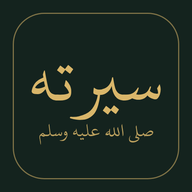
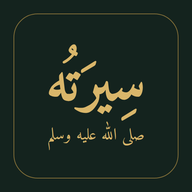
أيقونة الجوال وصورة المشاركة باسم «سِيرَتُه» مشكولاً
Claude-Session: https://claude.ai/code/session_01JkLm6hy17wbKXP7A7z1Jyh

Changed region(s): [[0.1562, 0.2188, 0.8438, 0.7812], [0.0625, 0.0625, 0.9375, 0.9375]]

diff --git a/worker/src/hadith.js b/worker/src/hadith.js
@@ -1,0 +1,2 @@
+// the hadiths of «من شمائله» on the site, in the same order (al-Albani graded them sahih or hasan)
+export default [{"n": "1", "p": 13, "g": "صحيح", "t": "عن أنس بن مالك أنه سمعه يقول: (كان رسول الله صلى الله عليه وسلم ليس بالطويل البائن ولا بالقصير ولا بالأبيض الأمهق ولا بالآدم ولا بالجعد القطط ولا بالسبط بعثه الله تعالى…"}, {"n": "2", "p": 14, "g": "صحيح", "t": "وعنه قال: (كان رسول الله صلى الله عليه وسلم ربعة ليس بالطويل ولا بالقصير حسن الجسم وكان شعره ليس بجعد ولا سبط أسمر اللون إذا مشى يتكفأ)"}, {"n": "3", "p": 14, "g": "صحيح", "t": "البراء بن عازب يقول: (كان رسول الله صلى الله عليه وسلم رجلا مربوعا بعيد ما بين المنكبين عظيم الجمة إلى شحمة أذنيه عليه حلة حمراء ما رأيت شيئا قط أحسن منه وفي رواية عنه…"}, {"n": "4", "p": 15, "g": "صحيح", "t": "عن علي بن أبي طالب قال: (لم يكن النبي صلى الله عليه وسلم بالطويل ولا بالقصير شثن الكفين والقدمين ضخم الرأس ضخم الكراديس طويل المسربة إذا مشى تكفأ تكفؤا كأنما ينحط من صبب…"}, {"n": "7", "p": 26, "g": "صحيح", "t": "جابر بن سمرة يقول: (كان رسول الله صلى الله عليه وسلم ضليع الفم أشكل العين منهوس العقب). قال شعبة: قلت لسماك: ما (ضليع الفم)؟ قال: عظيم الفم. قلت: ما (أشكل العين)؟ قال:…"}, {"n": "8", "p": 27, "g": "صحيح", "t": "وعنه قال: (رأيت رسول الله صلى الله عليه وسلم في ليلة إضحيان وعليه حلة حمراء فجعلت أنظر إليه وإلى القمر فلهو عندي أحسن من القمر)"}, {"n": "9", "p": 27, "g": "صحيح", "t": "عن أبي إسحاق قال: سأل رجل البراء بن عازب: أكان وجه رسول الله صلى الله عليه وسلم مثل السيف؟ قال: (لا بل مثل القمر)"}, {"n": "10", "p": 27, "g": "صحيح", "t": "عن أبي هريرة رضي الله عنه قال: (كان رسول الله صلى الله عليه وسلم أبيض كأنما صيغ من فضة رجل الشعر)"}, {"n": "11", "p": 28, "g": "صحيح", "t": "عن جابر بن عبد الله أن رسول الله صلى الله عليه وسلم قال: (عرض علي الأنبياء فإذا موسى عليه السلام ضرب من الرجال كأنه من رجال شنوءة ورأيت عيسى ابن مريم عليه السلام فإذا…"}, {"n": "12", "p": 29, "g": "صحيح", "t": "أبا الطفيل يقول: (رأيت النبي صلى الله عليه وسلم وما بقي على وجه الأرض أحد رآه غيري) قلت: صفه لي. قال: (كان أبيض مليحا مقصدا)"}, {"n": "14", "p": 30, "g": "صحيح", "t": "السائب بن يزيد يقول: (ذهبت بي خالتي إلى النبي صلى الله عليه وسلم فقالت: يا رسول الله إن ابن أختي وجع فمسح صلى الله عليه وسلم رأسي ودعا لي بالبركة وتوضأ فشربت من وضوئه…"}, {"n": "15", "p": 30, "g": "صحيح", "t": "عن جابر بن سمرة قال: (رأيت الخاتم بين كتفي رسول الله صلى الله عليه وسلم غدة حمراء مثل بيضة الحمامة)"}, {"n": "16", "p": 31, "g": "صحيح", "t": "عن عاصم بن عمر بن قتادة عن جدته رميثة قالت: سمعت رسول الله صلى الله عليه وسلم ولو أشاء أن أقبل الخاتم الذي بين كتفيه من قربه لفعلت يقول لسعد بن معاذ يوم مات: (اهتز له…"}, {"n": "17", "p": 31, "g": "صحيح", "t": "أبو زيد عمرو بن أخطب الأنصاري قال: قال لي رسول الله صلى الله عليه وسلم : (يا أبا زيد ادن مني فامسح ظهري) فمسحت ظهره فوقعت أصابعي على الخاتم. قلت: وما الخاتم. قال: شعرات…"}, {"n": "18", "p": 31, "g": "حسن", "t": "بريدة يقول: جاء سلمان الفارسي إلى رسول الله صلى الله عليه وسلم حين قدم المدينة بمائدة عليها رطب فوضعها بين يدي رسول الله صلى الله عليه وسلم فقال: (يا سلمان: ما هذا؟…"}, {"n": "19", "p": 33, "g": "حسن", "t": "عن أبي نضرة العوقي قال: سألت أبا سعيد الخدري عن خاتم رسول الله صلى الله عليه وسلم؟ يعني خاتم النبوة فقال: (كان في ظهره بضعة ناشزة)"}, {"n": "20", "p": 33, "g": "صحيح", "t": "عن عبد الله بن سرجس قال: (أتيت رسول الله صلى الله عليه وسلم وهو في ناس من أصحابه فدرت هكذا من خلفه فعرف الذي أريد فألقى الرداء عن ظهره فرأيت موضع الخاتم على كتفيه مثل…"}, {"n": "21", "p": 34, "g": "صحيح", "t": "عن أنس بن مالك قال: (كان شعر رسول الله صلى الله عليه وسلم إلى نصف (وفي طريق أخرى: أنصاف / ٢٨) أذنيه)"}, {"n": "22", "p": 34, "g": "صحيح", "t": "عن عائشة قالت: (كنت أغتسل أنا ورسول الله صلى الله عليه وسلم من إناء واحد وكان له شعر فوق الجمة ودون الوفرة)"}, {"n": "23", "p": 35, "g": "صحيح", "t": "عن أم هانئ بنت أبي طالب قالت: (قدم رسول الله صلى الله عليه وسلم مكة قدمة وله أربع غدائر \" وفي رواية: ضفائر / ٣٠ \")"}, {"n": "24", "p": 36, "g": "صحيح", "t": "عن ابن عباس: (أن رسول الله صلى الله عليه وسلم كان يسدل شعره وكان المشركون يفرقون رؤوسهم وكان أهل الكتاب يسدلون رؤوسهم وكان يحب موافقة أهل الكتاب فيما لم يؤمر فيه بشئ ثم…"}, {"n": "30", "p": 38, "g": "صحيح", "t": "عن قتادة قال: قلت لأنس بن مالك: (هل خضب رسول الله صلى الله عليه وسلم؟ قال: لم يبلغ ذلك إنما كان شيبا في صدغيه ولكن أبو بكر رضي الله تعالى عنه خضب بالحناء والكتم)"}, {"n": "31", "p": 38, "g": "صحيح", "t": "عن أنس بن مالك قال: (ما عددت في رأس رسول الله صلى الله عليه وسلم ولحيته إلا أربع عشرة شعرة بيضاء)"}, {"n": "32", "p": 39, "g": "صحيح", "t": "عن سماك بن حرب قال: سمعت جابر بن سمرة وقد سئل عن شيب رسول الله صلى الله عليه وسلم؟ فقال: (كان إذا دهن رأسه لم ير منه شيب وإذا لم يدهن رؤي منه شيء) وفي رواية: (لم يكن في…"}, {"n": "33", "p": 39, "g": "صحيح", "t": "عن عبد الله بن عمر قال: (إنما كان شيب رسول الله صلى الله عليه وسلم نحوا من عشرين شعرة بيضاء)"}, {"n": "34", "p": 40, "g": "صحيح", "t": "عن ابن عباس قال: قال أبو بكر: يا رسول الله قد شبت. قال: (شيبتني هود والواقعة والمرسلات وعم يتساءلون وإذا الشمس كورت)"}, {"n": "35", "p": 40, "g": "صحيح", "t": "عن أبي جحيفة [قال] : قالوا: يا رسول الله نراك قد شبت. قال: (قد شيبتني هود وأخواتها)"}, {"n": "36", "p": 40, "g": "صحيح", "t": "عن أبي رمثة التيمي تيم الرباب قال: أتيت النبي صلى الله عليه وسلم ومعي ابن لي قال: فأريته فقلت لما رأيته: (هذا نبي الله صلى الله عليه وسلم وعليه ثوبان (وفي رواية: بردان /…"}, {"n": "191", "p": 119, "g": "صحيح", "t": "عن عائشة رضي الله تعالى عنها قالت: (ما كان رسول الله صلى الله عليه وسلم يسرد كسردكم هذا ولكنه كان يتكلم بكلام بين فصل يحفظه من جلس إليه)"}, {"n": "192", "p": 120, "g": "صحيح", "t": "عن أنس بن مالك قال: (كان رسول الله صلى الله عليه وسلم يعيد الكلمة ثلاثا لتعقل عنه)"}, {"n": "194", "p": 121, "g": "صحيح", "t": "عن عبد الله بن الحارث بن جزء رضي الله عنه أنه قال: (ما رأيت أحدا أكثر تبسما من رسول الله صلى الله عليه وسلم ) ومن طريق أخرى عنه قال: (ما كان ضحك رسول الله صلى الله عليه…"}, {"n": "195", "p": 121, "g": "صحيح", "t": "عن أبي ذر رضي الله عنه قال: قال رسول الله صلى الله عليه وسلم : (إني لأعلم أول رجل يدخل الجنة وآخر رجل يخرج من النار: يؤتى بالرجل يوم القيامة فيقال: اعرضوا عليه صغار…"}, {"n": "196", "p": 122, "g": "صحيح", "t": "عن جرير بن عبد الله رضي الله عنه قال: (ما حجبني رسول الله صلى الله عليه وسلم منذ أسلمت ولا رآني إلا ضحك). وفي رواية: (إلا تبسم / ٢٣١)"}, {"n": "197", "p": 122, "g": "صحيح", "t": "عن عبد الله بن مسعود رضي الله عنه قال: قال رسول الله صلى الله عليه وسلم : (إني لأعرف آخر أهل النار خروجا رجل يخرج منها زحفا فيقال له: انطلق فادخل الجنة. قال: فيذهب ليدخل…"}, {"n": "198", "p": 123, "g": "صحيح", "t": "علي بن ربيعة قال: شهدت عليا رضي الله عنه أتي بدابة ليركبها فلما وضع رجله في الركاب قال: بسم الله فلما استوى على ظهرها قال: الحمد لله ثم قال: (سبحان الذي سخر لنا هذا وما…"}, {"n": "295", "p": 181, "g": "حسن", "t": "عن عمرو بن العاص قال: (كان رسول الله صلى الله عليه وسلم يقبل بوجهه وحديثه على أشر القوم يتألفهم بذلك فكان يقبل بوجهه وحديثه علي حتى ظننت أني خير القوم [فقلت يا رسول الله…"}, {"n": "296", "p": 181, "g": "صحيح", "t": "عن أنس بن مالك رضي الله عنه قال: (خدمت رسول الله صلى الله عليه وسلم عشر سنين فما قال لي أف قط وما قال لي لشيء صنعته: لم صنعته ولا لشيء تركته: لم تركته وكان رسول الله صلى…"}, {"n": "298", "p": 182, "g": "صحيح", "t": "عن عائشة أنها قالت: (لم يكن رسول الله صلى الله عليه وسلم فاحشا ولا متفحشا ولا صخابا في الأسواق ولا يجزيء بالسيئة ولكن يعفو ويصفح)"}, {"n": "299", "p": 183, "g": "صحيح", "t": "وعنها رضي الله عنها قالت: (ما ضرب رسول الله صلى الله عليه وسلم بيده شيئا قط إلا أن يجاهد في سبيل الله ولا ضرب خادما ولا امرأة)"}, {"n": "300", "p": 183, "g": "صحيح", "t": "وعنها أيضا قالت: (ما رأيت رسول الله صلى الله عليه وسلم منتصرا من مظلمة ظلمها قط ما لم ينتهك من محارم الله شيء فإذا انتهك من محارم الله شيء كان من أشدهم في ذلك غضبا وما…"}, {"n": "301", "p": 184, "g": "صحيح", "t": "وعنها رضي الله عنها قالت: استأذن رجل على رسول الله صلى الله عليه وسلم وأنا عنده فقال: (بئس ابن العشيرة (أو) أخو العشيرة) ثم أذن له فلما دخل ألان له القول فلما خرج قلت:…"}, {"n": "302", "p": 184, "g": "صحيح", "t": "جابر بن عبد الله يقول: (ما سئل رسول الله صلى الله عليه وسلم شيئا قط فقال: لا)"}, {"n": "303", "p": 185, "g": "صحيح", "t": "عن ابن عباس رضي الله عنهما قال: (كان رسول الله صلى الله عليه وسلم أجود الناس بالخير وكان أجود ما يكون في شهر رمضان حتى ينسلخ فيأتيه جبريل فيعرض عليه القرآن فإذا لقيه…"}, {"n": "304", "p": 185, "g": "صحيح", "t": "عن أنس بن مالك رضي الله تعالى عنه قال: (كان النبي صلى الله عليه وسلم لا يدخر شيئا لغد)"}, {"n": "306", "p": 186, "g": "صحيح", "t": "عن عائشة رضي الله عنها: (أن النبي صلى الله عليه وسلم كان يقبل الهدية ويثيب عليها)"}, {"n": "284", "p": 174, "g": "صحيح", "t": "عن عمر بن الخطاب قال: قال رسول الله صلى الله عليه وسلم : لا تطروني كما أطرت النصارى ابن مريم إنما أنا عبد فقولوا عبد الله ورسوله"}, {"n": "285", "p": 175, "g": "صحيح", "t": "عن أنس بن مالك رضي الله عنه أن امرأة جاءت إلى النبي صلى الله عليه وسلم فقالت له إن لي إليك حاجة فقال اجلسي في أي طريق المدينة شئت أجلس إليك"}, {"n": "287", "p": 177, "g": "صحيح", "t": "عن أنس بن مالك رضي الله عنه قال كان النبي صلى الله عليه وسلم يدعى إلى خبز الشعير والإهالة السنخة فيجيب ولقد كان له درع عند يهودي فما وجد ما يفكها حتى مات"}, {"n": "288", "p": 177, "g": "صحيح", "t": "وعنه رضي الله عنه قال: حج رسول الله صلى الله عليه وسلم على رحل رث وعليه قطيفة لا تساوي أربعة دراهم فقال اللهم اجعله حجا لا رياء فيه ولا سمعة وفي رواية: (كنا نرى ثمنها…"}, {"n": "289", "p": 178, "g": "صحيح", "t": "وعنه أيضا رضي الله عنه قال: لم يكن شخص أحب إليهم من رسول الله صلى الله عليه وسلم قال وكانوا إذا رأوه لم يقوموا لما يعلمون من كراهته لذلك"}, {"n": "290", "p": 178, "g": "صحيح", "t": "وعنه رضي الله عنه قال: قال رسول الله صلى الله عليه وسلم : لو أهدي إلي كراع لقبلت ولو دعيت عليه لأجبت"}, {"n": "291", "p": 179, "g": "صحيح", "t": "عن جابر رضي الله عنه قال جاءني رسول الله صلى الله عليه وسلم ليس براكب بغل ولا برذون"}, {"n": "292", "p": 179, "g": "صحيح", "t": "يوسف بن عبد الله بن سلام قال سماني رسول الله صلى الله عليه وسلم يوسف وأقعدني في حجره ومسح على رأسي"}, {"n": "293", "p": 179, "g": "صحيح", "t": "عن عمرة قالت قيل لعائشة ماذا كان يفعل رسول الله صلى الله عليه وسلم في بيته؟ قالت: كان بشرا من البشر يفلي ثوبه ويحلب شاته ويخدم نفسه"}, {"n": "307", "p": 187, "g": "صحيح", "t": "عن أبي سعيد الخدري قال: (كان صلى الله عليه وسلم أشد حياء من العذراء في خدرها وكان إذا كره شيئا عرف في وجهه)"}, {"n": "200", "p": 124, "g": "صحيح", "t": "عن أنس بن مالك: أن النبي صلى الله عليه وسلم قال له: (يا ذا الأذنين) قال أبو أسامة: يعني يمازحه"}, {"n": "201", "p": 125, "g": "صحيح", "t": "عن أنس بن مالك رضي الله عنه قال: إن كان رسول الله صلى الله عليه وسلم ليخالطنا حتى يقول لأخ لي صغير: (يا أبا عمير ما فعل النغير) قال أبو عيسى: وفقه هذا الحديث أن النبي…"}, {"n": "202", "p": 126, "g": "صحيح", "t": "عن أبي هريرة رضي الله تعالى عنه قال: قالوا: يا رسول الله إنك تداعبنا. قال: (نعم غير إني لا أقول إلا حقا)"}, {"n": "203", "p": 126, "g": "صحيح", "t": "عن أنس بن مالك: أن رجلا استحمل رسول الله صلى الله عليه وسلم. فقال: (إني حاملك على ولد ناقة) فقال: يا رسول الله ما أصنع بولد الناقة؟ فقال صلى الله عليه وسلم : (وهل تلد…"}, {"n": "204", "p": 127, "g": "صحيح", "t": "وعنه: أن رجلا من أهل البادية كان اسمه زاهرا وكان يهدي إلى النبي صلى الله عليه وسلم هدية من البادية فيجهزه النبي صلى الله عليه وسلم إذا أراد أن يخرج فقال النبي صلى الله…"}, {"n": "205", "p": 128, "g": "حسن", "t": "عن الحسن قال: أتت عجوز إلى النبي صلى الله عليه وسلم فقالت: يا رسول الله ادع الله أن يدخلني الجنة. فقال: (يا أم فلان إن الجنة لا تدخلها عجوز). قال: فولت تبكي. فقال:…"}, {"n": "276", "p": 169, "g": "صحيح", "t": "عبد الله بن الشخير قال أتيت رسول الله صلى الله عليه وسلم وهو يصلي ولجوفه أزيز كأزيز المرجل من البكاء"}, {"n": "277", "p": 170, "g": "صحيح", "t": "عن عبد الله بن مسعود رضي الله عنه قال قال لي رسول الله صلى الله عليه وسلم : اقرأ علي فقلت يا رسول أقرأ عليك وعليك أنزل قال إني أحب أن أسمعه من غيري فقرأت سورة النساء حتى…"}, {"n": "278", "p": 170, "g": "صحيح", "t": "عن عبد الله بن عمرو قال انكسفت الشمس يوما على عهد رسول الله صلى الله عليه وسلم فقام رسول الله صلى الله عليه وسلم يصلي حتى لم يكد يركع ثم ركع فلم يكد يرفع رأسه ثم رفع…"}, {"n": "279", "p": 171, "g": "صحيح", "t": "عن ابن عباس قال أخذ رسول الله صلى الله عليه وسلم ابنة له تقضي فاحتضنها فوضعها بين يديه فماتت وهي بين يديه وصاحت أم أيمن فقال يعني صلى الله عليه وسلم : أتبكين عند رسول…"}, {"n": "280", "p": 172, "g": "صحيح", "t": "عن عائشة رضي الله عنها أن رسول الله صلى الله عليه وسلم قبل عثمان بن مظعون وهو ميت وهو يبكي أو قال عيناه تهرقان"}, {"n": "281", "p": 172, "g": "صحيح", "t": "عن أنس بن مالك قال شهدنا ابنة لرسول الله صلى الله عليه وسلم ورسول الله جالس على القبر فرأيت عينيه تدمعان فقال: أفيكم رجل لم يقارف الليلة قال أبو طلحة أنا قال انزل فنزل…"}, {"n": "108", "p": 76, "g": "صحيح", "t": "عن محمد بن سيرين قال: (كنا عند أبي هريرة وعليه ثوبان ممشقان من كتان فتمخط في أحدهما فقال: بخ بخ يتمخط أبو هريرة في الكتان لقد رأيتني وإني لأخر فيما بين منبر رسول الله…"}, {"n": "109", "p": 76, "g": "صحيح", "t": "عن مالك بن دينار قال: (ما شبع رسول الله صلى الله عليه وسلم من خبز قط ولا لحم إلا على ضفف) قال مالك: سألت رجلا من أهل البادية: ما الضفف؟ قال: أن يتناول مع الناس"}, {"n": "110", "p": 77, "g": "صحيح", "t": "عن سماك بن حرب قال: سمعت النعمان بن بشير يقول: (ألستم في طعام وشراب ما شئتم؟ لقد رأيت نبيكم صلى الله عليه وسلم وما يجد من الدقل ما يملأ بطنه)"}, {"n": "111", "p": 77, "g": "صحيح", "t": "عن عائشة قالت: (إن كنا آل محمد نمكث شهرا ما نستوقد بنار إن هو إلا التمر والماء)"}, {"n": "113", "p": 79, "g": "صحيح", "t": "عن أبي هريرة قال: خرج رسول الله صلى الله عليه وسلم في ساعة لا يخرج فيها ولا يلقاه فيها أحد فأتاه أبو بكر فقال: (ما جاء بك يا أبا بكر؟) قال: خرجت ألقى رسول الله صلى الله…"}, {"n": "114", "p": 81, "g": "صحيح", "t": "سعد بن أبي وقاص يقول: (إني لأول رجل أهراق دما في سبيل الله عز وجل وإني لأول رجل رمى بسهم في سبيل الله لقد رأيتني أغزو في العصابة من أصحاب محمد عليه الصلاة والسلام ما…"}, {"n": "116", "p": 83, "g": "صحيح", "t": "عن أنس قال: قال رسول الله صلى الله عليه وسلم : (لقد أخفت في الله وما يخاف أحد ولقد أوذيت في الله وما يؤذى أحد ولقد أتت علي ثلاثون من بين ليلة ويوم وما لي ولبلال طعام…"}, {"n": "117", "p": 84, "g": "صحيح", "t": "وعنه: (أن النبي صلى الله عليه وسلم لم يجتمع عنده غداء ولا عشاء من خبز ولحم إلا على ضفف) قال عبد الله: قال بعضهم: هو كثرة الأيدي"}];

diff --git a/index.html b/index.html
@@ -4,23 +4,23 @@
 <meta charset="utf-8">
 <meta name="viewport" content="width=device-width,initial-scale=1,viewport-fit=cover">
 <link rel="manifest" href="manifest.json">
-<link rel="apple-touch-icon" href="favicon-180.png">
-<link rel="icon" type="image/png" sizes="96x96" href="favicon-96.png">
+<link rel="apple-touch-icon" href="favicon-180.png?v=2">
+<link rel="icon" type="image/png" sizes="96x96" href="favicon-96.png?v=2">
 <meta name="apple-mobile-web-app-capable" content="yes">
-<meta name="apple-mobile-web-app-title" content="سيرته">
+<meta name="apple-mobile-web-app-title" content="سِيرَتُه">
 <meta name="description" content="سيرة النبي صلى الله عليه وسلم وشمائله ومغازيه وهديه، ثم خلفاؤه الراشدون، من كتب أهل العلم بنصوصها وصفحاتها">
 <meta property="og:type" content="website">
 <meta property="og:locale" content="ar_AR">
 <meta property="og:site_name" content="سيرته صلى الله عليه وسلم">
 <meta property="og:title" content="سيرته صلى الله عليه وسلم">
 <meta property="og:description" content="سيرة النبي صلى الله عليه وسلم وشمائله ومغازيه وهديه، ثم خلفاؤه الراشدون، من كتب أهل العلم بنصوصها وصفحاتها">
-<meta property="og:image" content="https://seeratuh.com/og.jpg">
+<meta property="og:image" content="https://seeratuh.com/og2.jpg">
 <meta property="og:image:width" content="1200">
 <meta property="og:image:height" content="630">
 <meta property="og:url" content="https://seeratuh.com/">
 <meta name="twitter:card" content="summary_large_image">
 <meta name="twitter:title" content="سيرته صلى الله عليه وسلم">
-<meta name="twitter:image" content="https://seeratuh.com/og.jpg">
+<meta name="twitter:image" content="https://seeratuh.com/og2.jpg">
 </head>
 <body>
 <script>document.documentElement.lang="ar";document.documentElement.dir="rtl"</script>
@@ -1523,7 +1523,7 @@ svg.nm{display:inline-block;width:auto;aspect-ratio:1.222;fill:currentColor;over
 <script>
 "use strict";
 const DV='37';
-const APP_VER='2026-10-09-1819';   // must match version.json; tells an installed copy that a newer version exists               // version of the data files
+const APP_VER='2026-10-09-1823';   // must match version.json; tells an installed copy that a newer version exists               // version of the data files
 const ORD=['','الأول','الثاني','الثالث','الرابع','الخامس','السادس','السابع','الثامن','التاسع','العاشر','الحادي عشر','الثاني عشر','الثالث عشر','الرابع عشر','الخامس عشر','السادس عشر'];
 // وصف الأجزاء من بيان الأجزاء في آخر الجزء السادس عشر (ص ٤٩٤–٤٩٦)
 const VOLS=[
